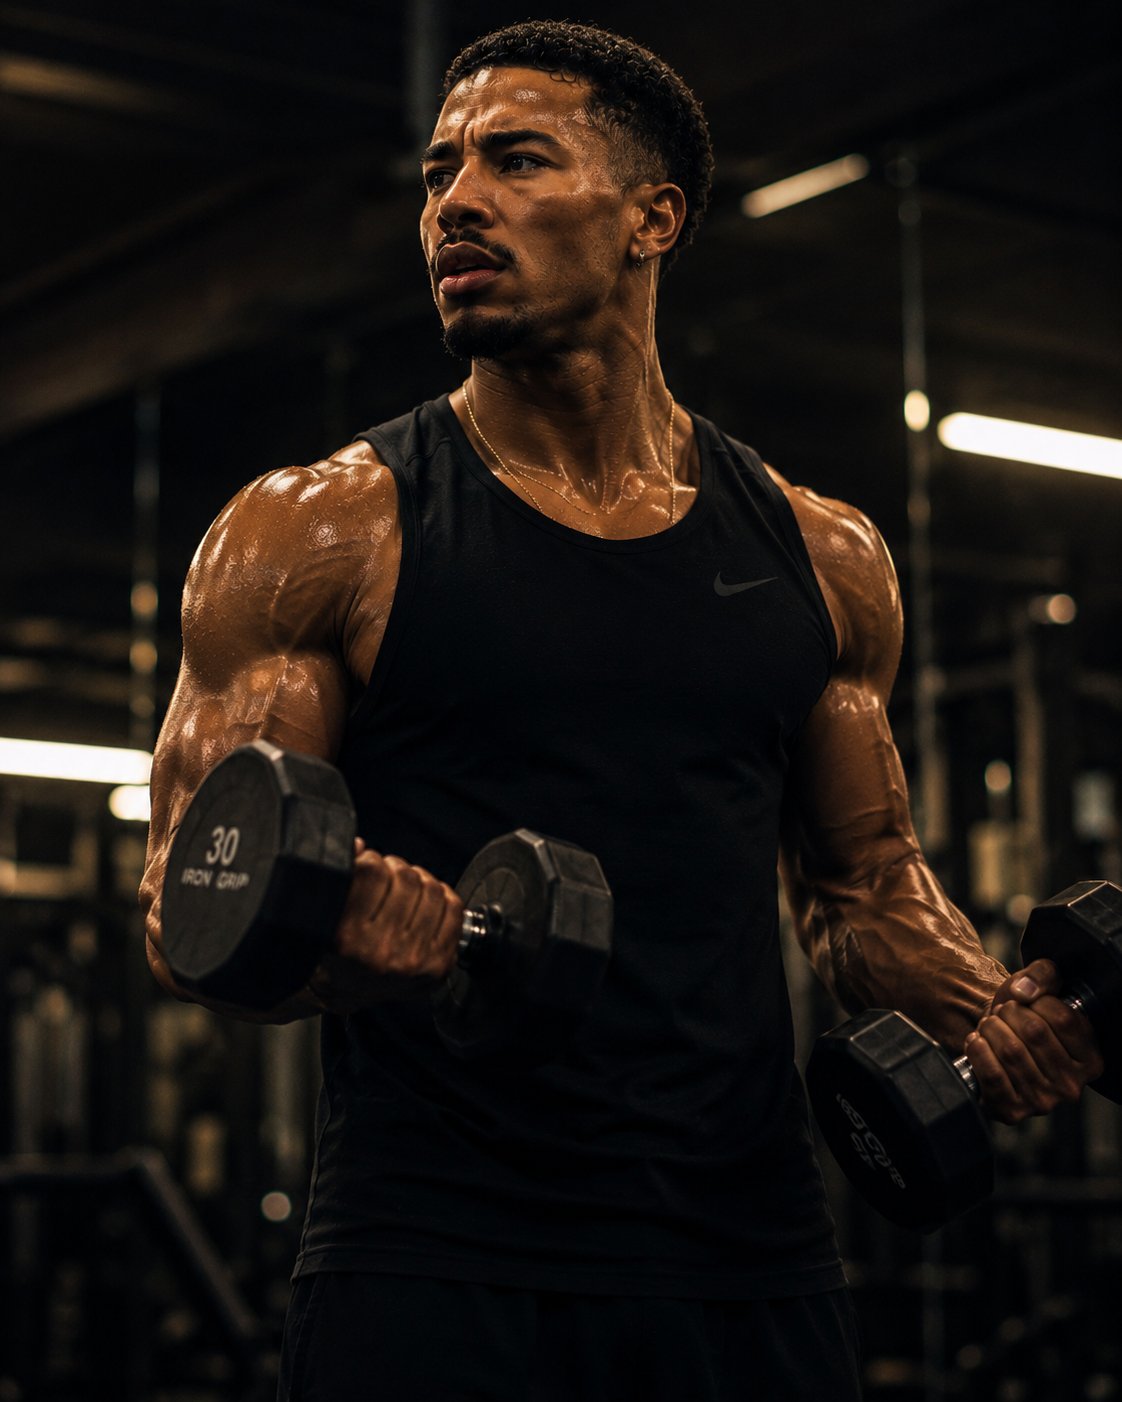
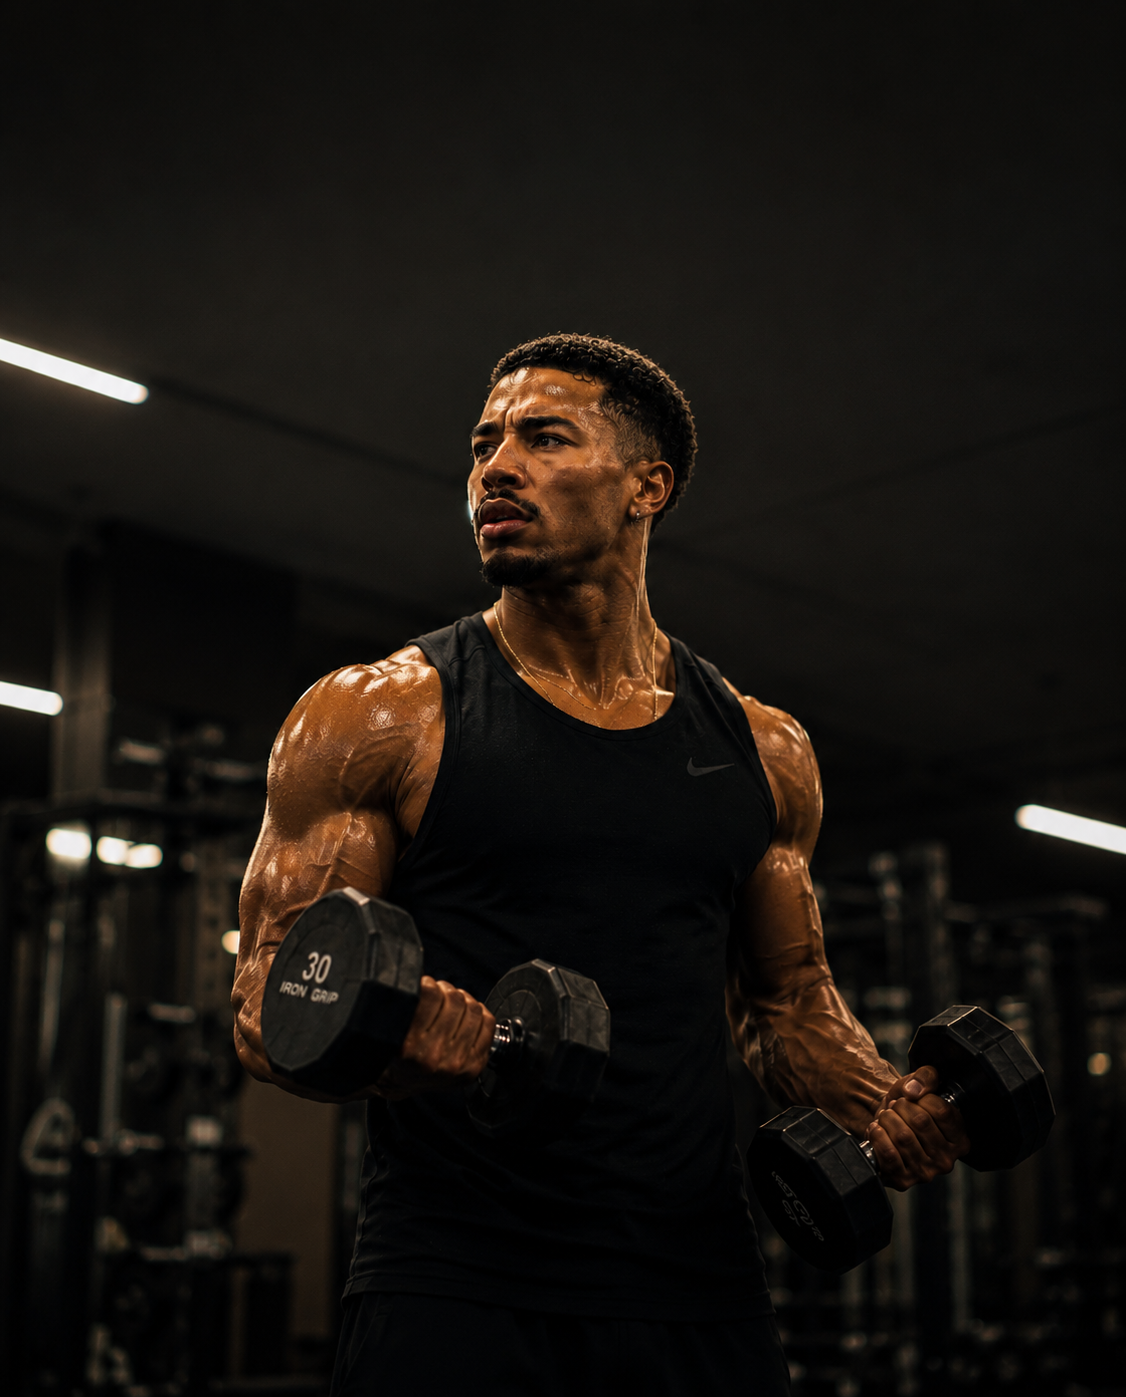
auto-commit for 7a1c6c7e-fc63-43de-92e1-84ac11d7091f

diff --git a/frontend/app/onboarding-funnel/reveal-payoff.tsx b/frontend/app/onboarding-funnel/reveal-payoff.tsx
@@ -57,7 +57,7 @@ const HERO_TEXT_BOTTOM_PADDING = 14; // anchors headline/blurb near the image's 
 const CAROUSEL_HEIGHT = 144; // fixed so card swaps never shift anything below
 // Fixed, shared space for the swap slot (92% row OR founding block) so the
 // primary button and everything below land at the SAME position in both variants.
-const SWAP_SLOT_HEIGHT = 84;
+const SWAP_SLOT_HEIGHT = 70;
 
 // Mood-specific payoff hero photos. 'lazy' reuses the sweat hero per design.
 const HERO_IMAGES: Record<MoodId, ReturnType<typeof require>> = {
@@ -110,6 +110,8 @@ export default function RevealPayoff() {
   const { height: windowHeight } = useWindowDimensions();
   const screenH = windowHeight;
   const heroHeight = Math.max(screenH * HERO_HEIGHT_RATIO, HERO_MIN_HEIGHT);
+  // Push the photo down so the subject clears the iOS status bar / camera notch.
+  const heroImgShift = Math.max(insets.top + 4, 28);
 
   const firstName =
     (user?.name && user.name.split(' ')[0]) || user?.username || 'Athlete';
@@ -209,6 +211,7 @@ export default function RevealPayoff() {
         <ImageBackground
           source={heroImage}
           style={[styles.hero, { height: heroHeight }]}
+          imageStyle={{ transform: [{ translateY: heroImgShift }] }}
           resizeMode="cover"
         >
           {/* Light top scrim — keeps the wordmark legible without darkening the photo */}
@@ -515,20 +518,20 @@ const styles = StyleSheet.create({
   dotActive: { width: 18, backgroundColor: COLORS.accent },
 
   // SWAP SLOT — fixed shared height; both blocks occupy the SAME space (centered)
-  swapSlot: { height: SWAP_SLOT_HEIGHT, justifyContent: 'center', marginBottom: 10 },
+  swapSlot: { height: SWAP_SLOT_HEIGHT, justifyContent: 'center', marginBottom: 8 },
   socialStat: { flexDirection: 'row', alignItems: 'center', gap: 12 },
   avatars: { flexDirection: 'row' },
   avatar: { width: 30, height: 30, borderRadius: 15, borderWidth: 2, borderColor: PAGE_BG },
   avatarOverlap: { marginLeft: -10 },
   socialStatText: { flex: 1, fontSize: 12, lineHeight: 17, color: COLORS.textSecondary },
-  foundingBanner: { flexDirection: 'row', alignItems: 'flex-start', gap: 8, backgroundColor: COLORS.surfaceElevated, borderRadius: 12, borderWidth: 1, borderColor: 'rgba(255,215,0,0.3)', padding: 12 },
+  foundingBanner: { flexDirection: 'row', alignItems: 'center', gap: 8 },
   foundingBannerText: { flex: 1, fontSize: 13, lineHeight: 19, color: COLORS.textSecondary },
 
   // PRIMARY + TRIAL
   cta: { borderRadius: 14, overflow: 'hidden' },
   ctaGradient: { flexDirection: 'row', alignItems: 'center', justifyContent: 'center', paddingVertical: 16, minHeight: 54 },
   ctaLabel: { fontSize: 16, fontWeight: '700', color: COLORS.accentInk, letterSpacing: 0.3 },
-  orDivider: { alignItems: 'center', justifyContent: 'center', paddingTop: 20, paddingBottom: 8 },
+  orDivider: { alignItems: 'center', justifyContent: 'center', paddingTop: 14, paddingBottom: 6 },
   orText: { fontSize: 12, color: COLORS.textTertiary, fontWeight: '600' },
   trialBtn: { paddingVertical: 13, alignItems: 'center', justifyContent: 'center', minHeight: 48 },
   trialBtnLabel: { fontSize: 15, fontWeight: '700', color: COLORS.textPrimary, letterSpacing: 0.2 },

diff --git a/memory/PRD.md b/memory/PRD.md
@@ -1,5 +1,12 @@
 # MOOD Fitness App - PRD
 
+## [2026-06-12] Payoff polish: image shift, tighter spacing, founding banner restyle, new muscle hero
+- New muscle hero photo (dumbbell-curl man) swapped into `assets/images/payoff/payoff-muscle.png`.
+- Hero photo shifted DOWN via `imageStyle translateY = max(insets.top+4, 28)` so the subject clears the iOS status bar / camera notch (gym ceiling now sits behind the status bar zone).
+- Tighter spacing so the trial button isn't too low: `SWAP_SLOT_HEIGHT` 84→70 (+ marginBottom 10→8), `orDivider` paddingTop 20→14 / paddingBottom 8→6.
+- Founding banner restyled: removed background/border/box padding, `alignItems:'center'` (lightning icon vertically centered with text). Still occupies the fixed swap slot so the Claim button aligns exactly with Subscribe Now.
+- Verified both variants on web (forced founding, then reverted): button positions pixel-identical; trial button fully visible.
+
 ## [2026-06-12] Payoff spacing tightened + fixed-height swap slot
 - Reduced padding so the trial button is no longer too low: `HERO_TEXT_BOTTOM_PADDING` 22→14, `sheet.paddingTop` 6→4, `carouselWrap` height `CAROUSEL_HEIGHT+50`→`+18` & marginBottom 16→8, `dots.marginTop` 14→8.
 - Added `SWAP_SLOT_HEIGHT=84` — both the 92% social row (standard) and the founding pricing block (founding) now sit in a fixed-height, vertically-centered `swapSlot`, so the primary button (Subscribe Now / Claim Founding) and everything below land at the SAME Y in both variants. Verified on web (forced founding, then reverted): button position pixel-identical across both screens.
